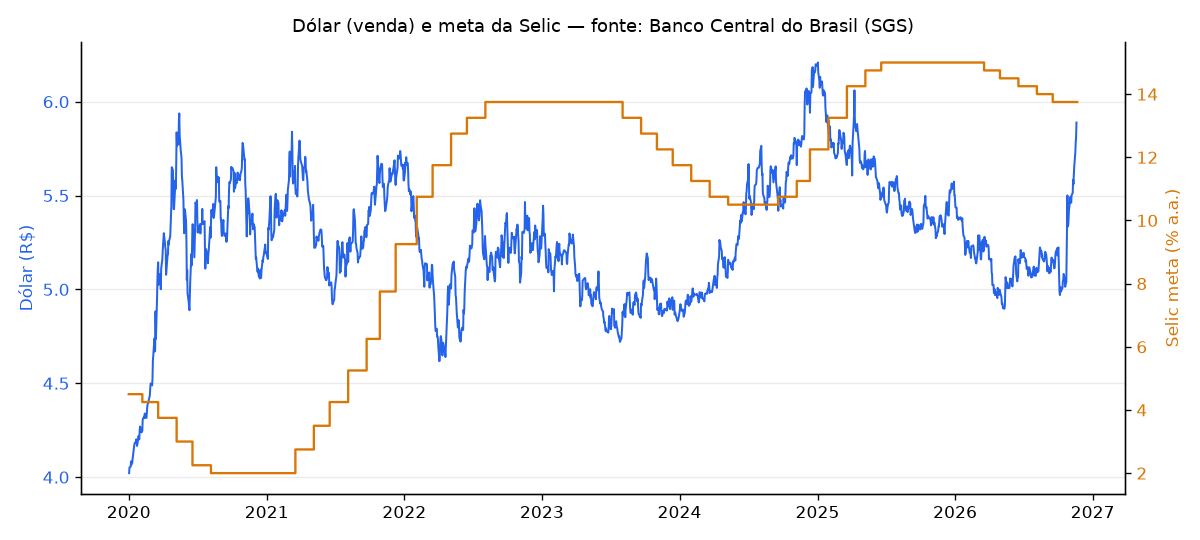
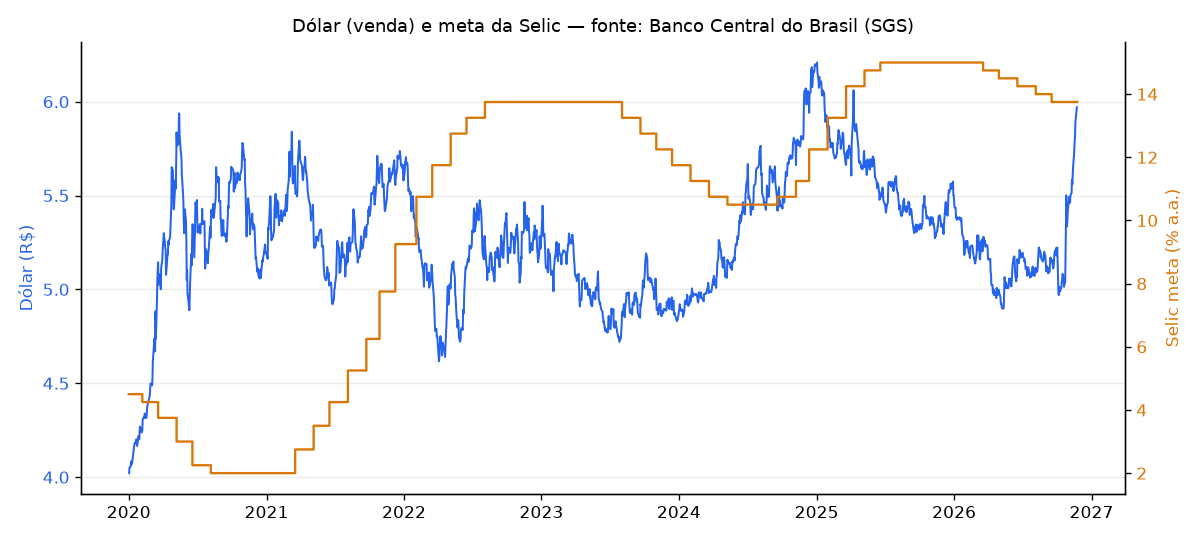
dados: atualização automática 2026-11-24

diff --git a/README.md b/README.md
@@ -10,15 +10,15 @@ publica os indicadores neste README. Roda **sozinho todo dia útil** via GitHub 
 ## Indicadores (atualizado automaticamente)
 
 <!-- INDICADORES:INICIO -->
-_Última execução do pipeline: 21/11/2026_
+_Última execução do pipeline: 24/11/2026_
 
 | Indicador | Último valor | Referência |
 |---|---|---|
-| Dólar americano (venda) | 5,8889 R$ | 19/11/2026 |
-| Euro (venda) | 6,4672 R$ | 19/11/2026 |
-| Meta da taxa Selic (Copom) | 13,75 % a.a. | 21/11/2026 |
+| Dólar americano (venda) | 5,9708 R$ | 23/11/2026 |
+| Euro (venda) | 6,5076 R$ | 23/11/2026 |
+| Meta da taxa Selic (Copom) | 13,75 % a.a. | 24/11/2026 |
 | IPCA - variação mensal | 0,14 % | 10/2026 |
-| Variação do dólar no ano | 7,02 % | desde 31/12 do ano anterior |
+| Variação do dólar no ano | 8,51 % | desde 31/12 do ano anterior |
 | IPCA acumulado em 12 meses | 4,63 % | até 2026-10 |
 | Juro real aproximado (Selic − IPCA 12m) | 8,72 % a.a. | 2026-10 |
 
@@ -26,7 +26,7 @@ _Última execução do pipeline: 21/11/2026_
 
 | Mês | Dólar médio | Euro médio | Selic meta | IPCA mês | IPCA 12m |
 |---|---|---|---|---|---|
-| 2026-11 | 5,6213 | 6,2390 | 13,75 | — | — |
+| 2026-11 | 5,6462 | 6,2582 | 13,75 | — | — |
 | 2026-10 | 5,1294 | 5,7437 | 13,75 | 0,14 | 4,63 |
 | 2026-09 | 5,1447 | 5,9186 | 13,75 | 0,82 | 4,58 |
 | 2026-08 | 5,1532 | 5,9747 | 14,00 | -0,32 | 4,22 |
